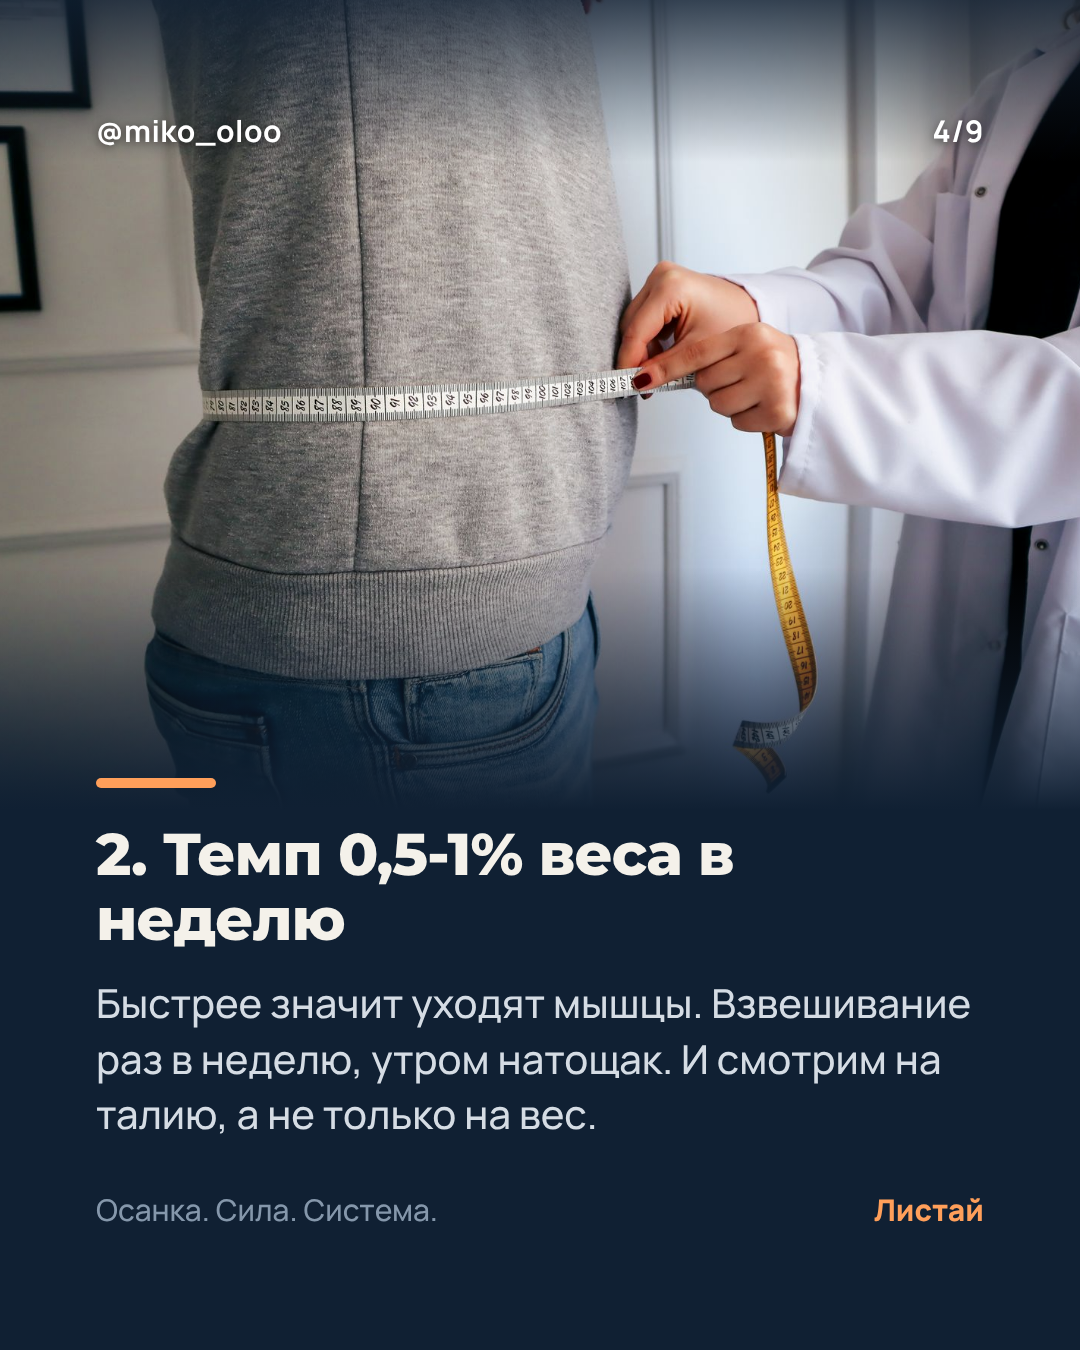
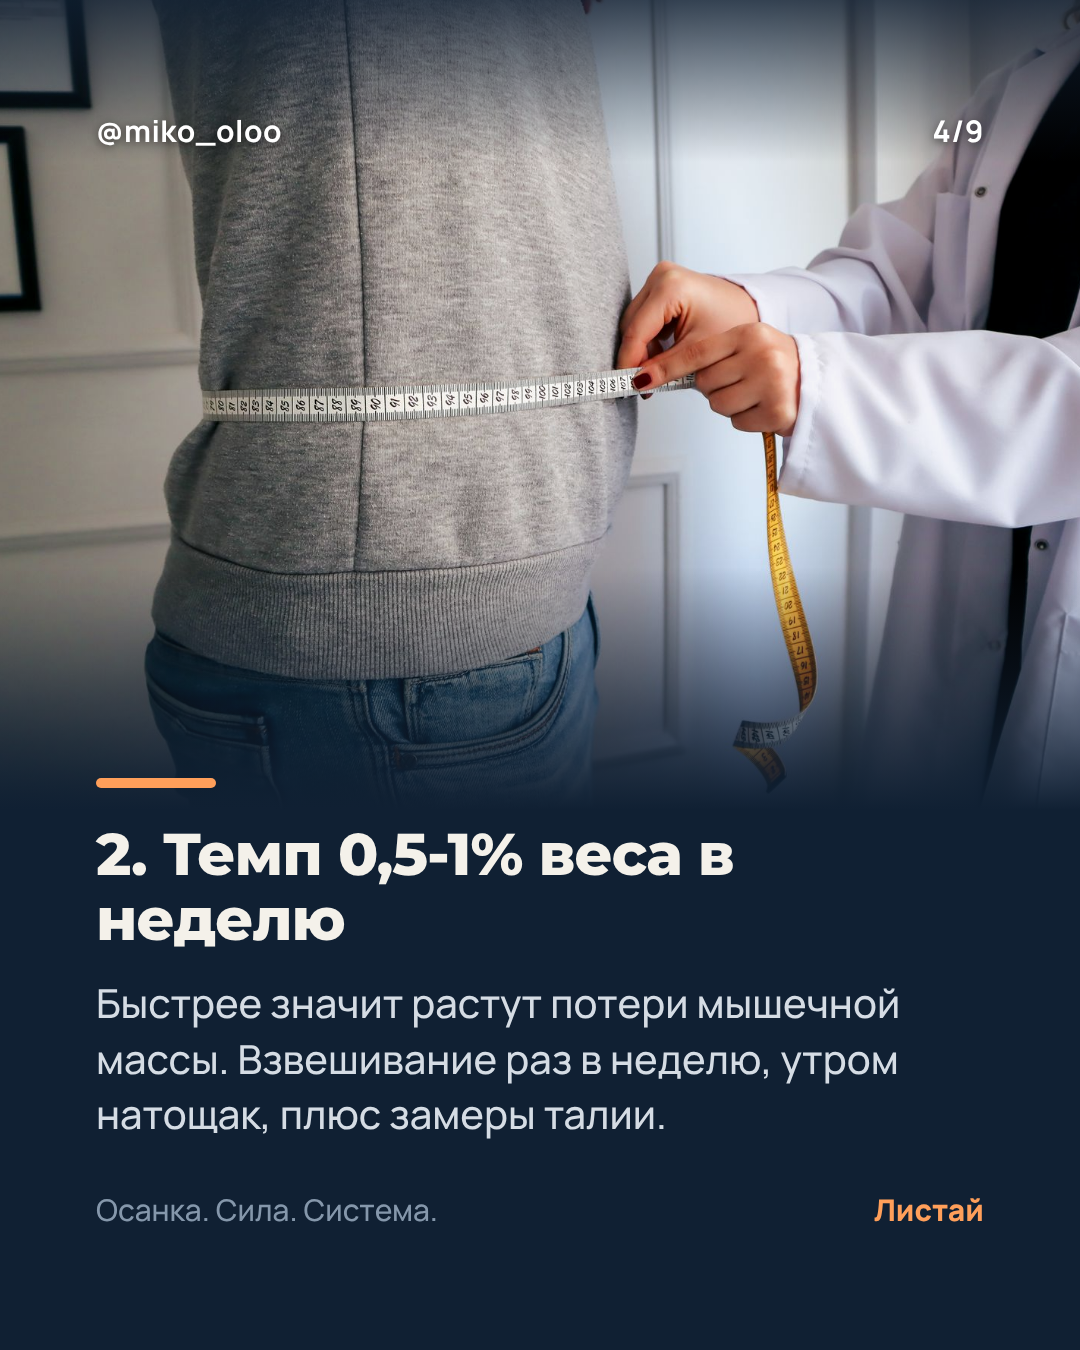
Карусели: тексты, пометки и подписи в профессиональном тоне (антеверсия, гиперлордоз, ретракция лопаток); правило тона в CLAUDE.md и словаре
Claude-Session: https://claude.ai/code/session_014b6iEBjPGyacsH4fnBbVwQ

Changed region(s): [[0.0917, 0.7156, 0.8861, 0.84]]

diff --git a/.claude/MIKAEL_DICTIONARY.md b/.claude/MIKAEL_DICTIONARY.md
@@ -36,6 +36,7 @@
 | 23.10 | Больше картинок на первых слайдах, карусель должна быть живее, иначе поймут, что это ИИ-контент. Агенты плохо справляются, уволь и найми квалифицированнее | Обложка без фото и слайды-тексты выглядят как ИИ. Нужен живой вид | Обложка всегда с фото человека; картинка на 7 из 9 слайдов; раскладки чередуются. Агентов по картинкам заменили |
 | 23.10 | Брат, у тебя картинки не в тему. Про утиную поясницу, может на первом слайде она и должна быть. Вот фото клиента сбоку. Увольняй этих агентов и того, кто их нанял | Картинка должна показывать тему слайда, а не украшать. Живые стоковые фото не по теме хуже, чем ничего | Главный критерий картинки: без текста понятно, о чём слайд. Обложка показывает проблему из хука. Свои фото и фото клиентов важнее стоков. Уволены агенты по картинкам и team-lead, наняты hr-director, visual-lead, slide-builder, visual-qa |
 | 23.10 | Заменяй. Добро. По всем остальным слайдам поднажми, сделай чётенько. Уже без одобрения можешь сразу менять, а то лимитов не хватит | Разрешил фото клиента и замену постов в Metricool без согласования | Правки уже одобренных каруселей вносить и заменять в Metricool сразу, потом отчитаться. Экономить лимит: меньше агентов, меньше передач |
+| 26.10 | Мне не нравится, как ты описываешь особенности осанки, слишком по-деревенски. Больше компетентности и профессионализма, но понятно тому, кто хочет заняться осанкой (они уже более-менее разбираются в терминах) | Нужен тон тренера-специалиста, а не бытовой язык | В контенте профессиональные термины (антеверсия, гиперлордоз, кифоз, протракция, ретракция лопаток, подошвенная фасция) короткими ясными фразами. Бытовые образы только в хуке обложки |
 | 23.10 | Я очень однообразно выражаюсь, может даже непонятно | Просит догадываться о смысле | Запросы сначала через request-interpreter |
 
 ## Что ему нравится

diff --git a/CLAUDE.md b/CLAUDE.md
@@ -23,7 +23,8 @@
 ## Стиль текста (обязательно)
 - Без тире «—» и «–», без «ёлочек» (только обычные кавычки "..."), без «×» (пишем «3 по 10» или «3х10»), без «°», «•», «→».
 - Диапазоны через обычный дефис: 3-5, 1,8-2,2 г.
-- Короткие предложения, простые слова, без ИИ-штампов.
+- Короткие предложения, без ИИ-штампов.
+- Контент для Instagram: тон тренера-специалиста. Профессиональные термины (антеверсия таза, гиперлордоз, грудной кифоз, протракция головы, ретракция лопаток), но фразы короткие и понятные человеку, который уже немного разбирается. Бытовые образы допустимы только в хуке.
 - Базы знаний: формат справочника тренера, цифры и правила принятия решений важнее объяснений.
 - Где нужен опыт Микаела, ставим пометку **Нужно от тебя:** и вопрос. Не выдумываем его кейсы и цифры.
 
